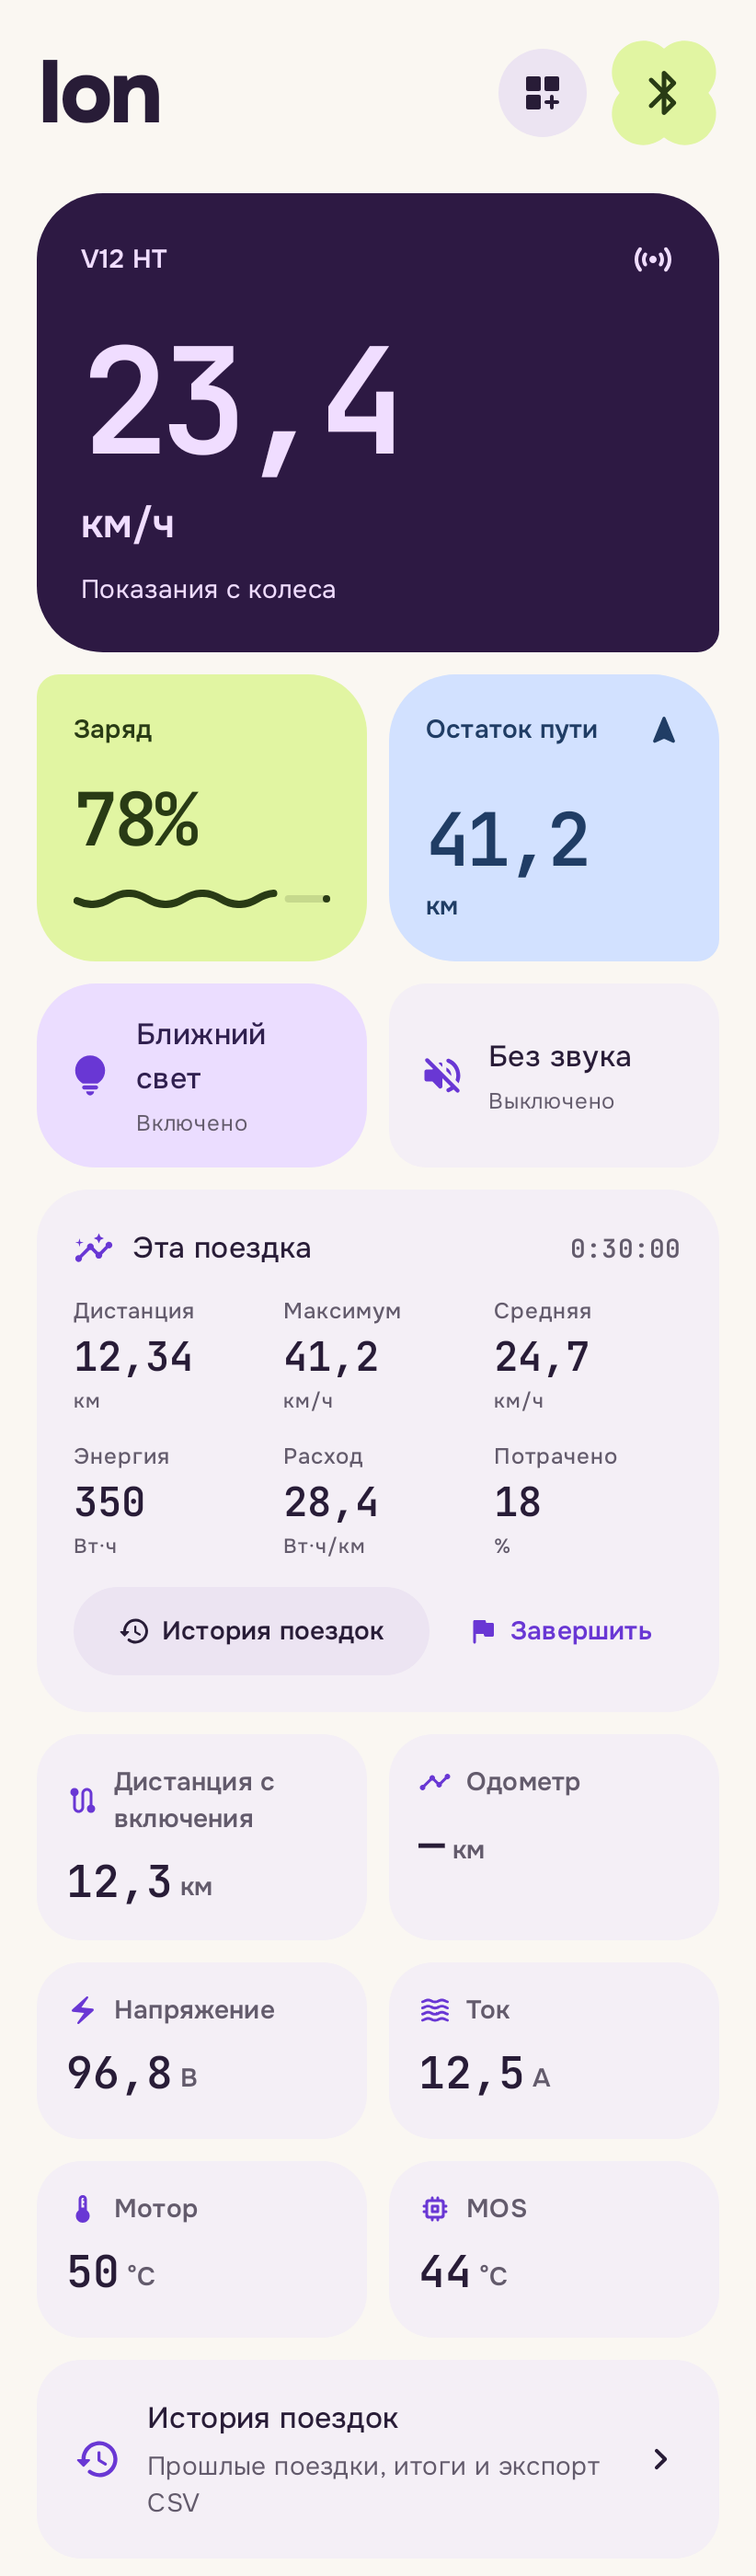
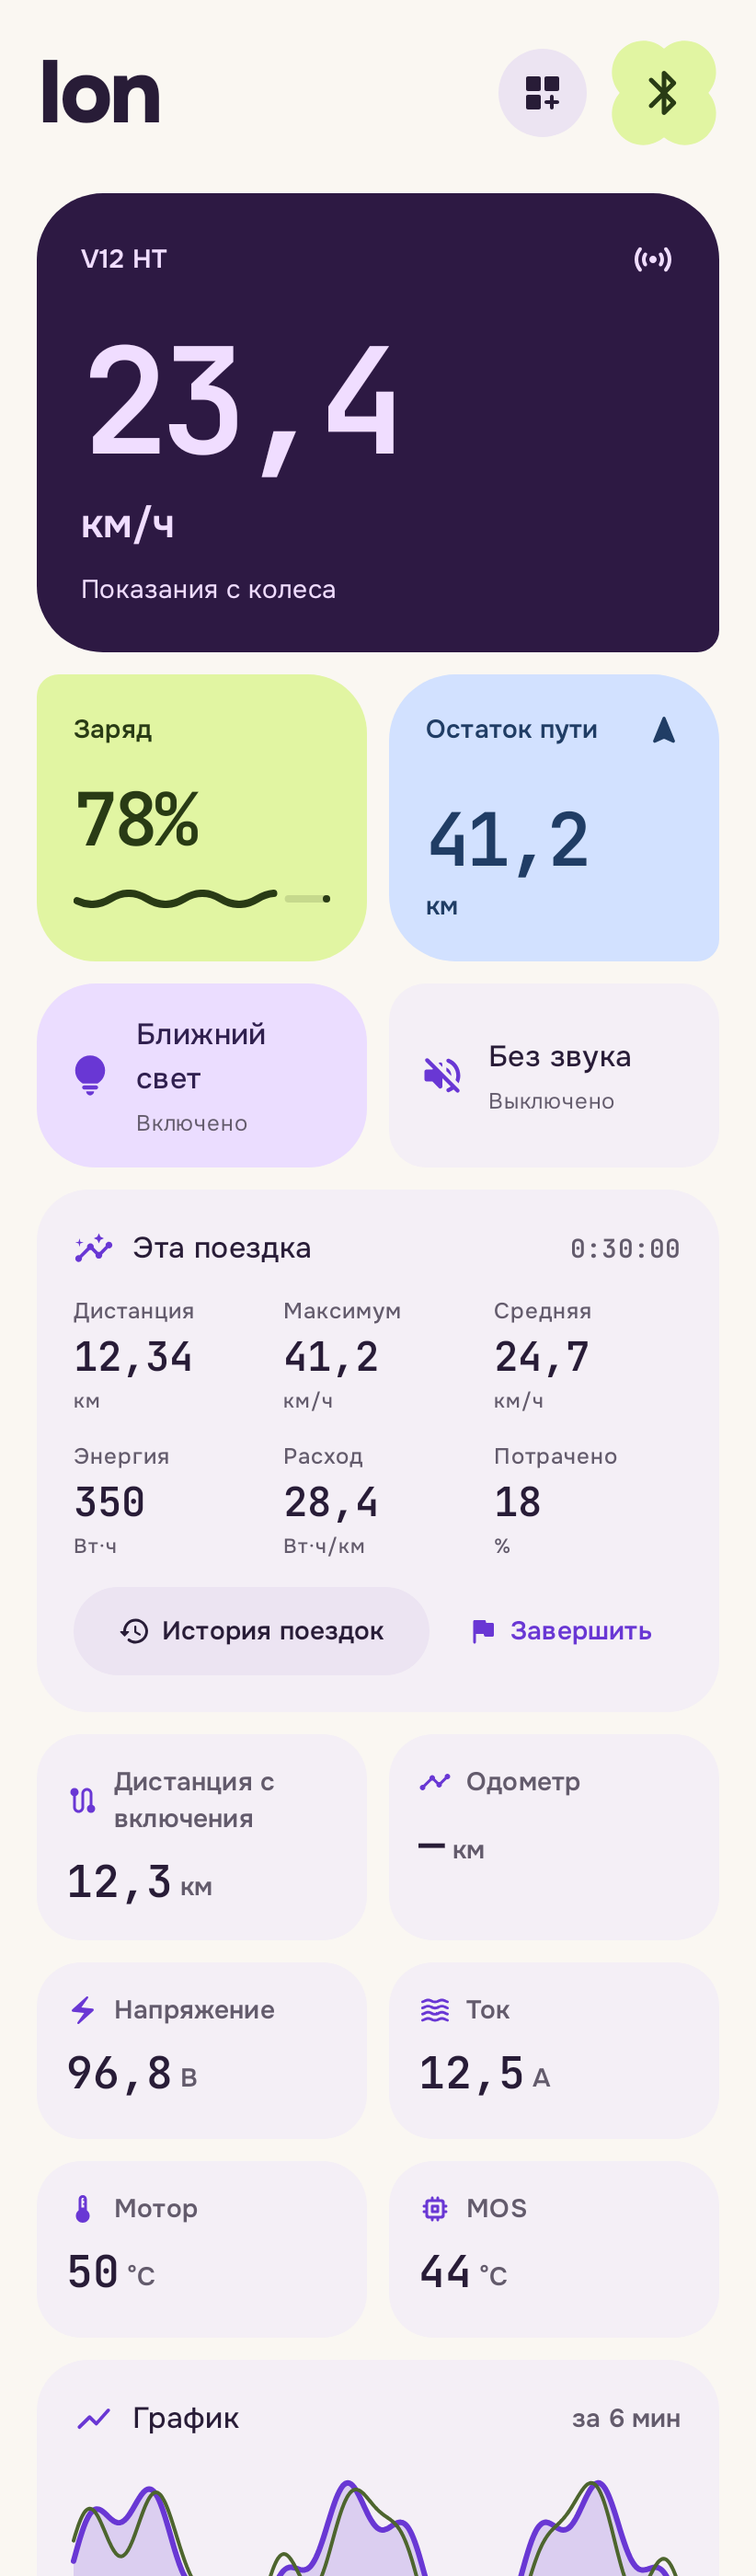
feat: live speed/power chart tile; docs: commit authorship note

Changed region(s): [[0.0912, 0.9321, 0.5779, 1.0], [0.6691, 0.9321, 0.9124, 1.0], [0.8516, 0.9321, 0.882, 0.9632]]

diff --git a/app/src/main/java/com/freecyber/ion/ChartTile.kt b/app/src/main/java/com/freecyber/ion/ChartTile.kt
@@ -1,0 +1,78 @@
+package com.freecyber.ion
+
+import androidx.compose.foundation.Canvas
+import androidx.compose.foundation.layout.*
+import androidx.compose.foundation.shape.RoundedCornerShape
+import androidx.compose.material.icons.Icons
+import androidx.compose.material.icons.rounded.ShowChart
+import androidx.compose.material3.Icon
+import androidx.compose.material3.MaterialTheme
+import androidx.compose.material3.Surface
+import androidx.compose.material3.Text
+import androidx.compose.runtime.Composable
+import androidx.compose.ui.Alignment
+import androidx.compose.ui.Modifier
+import androidx.compose.ui.geometry.Offset
+import androidx.compose.ui.graphics.Color
+import androidx.compose.ui.graphics.Path
+import androidx.compose.ui.graphics.StrokeCap
+import androidx.compose.ui.graphics.StrokeJoin
+import androidx.compose.ui.graphics.drawscope.Stroke
+import androidx.compose.ui.res.stringResource
+import androidx.compose.ui.semantics.contentDescription
+import androidx.compose.ui.semantics.semantics
+import androidx.compose.ui.unit.dp
+
+/** Live speed (filled) and power (line) over the last minutes; each series scales to its own peak. */
+@Composable internal fun ChartTile(samples: List<Sample>,modifier: Modifier) {
+    val speedColor=MaterialTheme.colorScheme.primary
+    val powerColor=MaterialTheme.colorScheme.tertiary
+    val maxSpeed=samples.maxOfOrNull {it.speed} ?: 0f
+    val maxPower=samples.maxOfOrNull {it.power} ?: 0f
+    val minutes=if(samples.size<2) 0 else ((samples.last().at-samples.first().at)/60_000).toInt().coerceAtLeast(1)
+    val summary=stringResource(R.string.chart_summary,maxSpeed.toDouble().fmt(1),maxPower.toInt(),minutes)
+    Surface(modifier,color=MaterialTheme.colorScheme.surfaceContainerLow,shape=RoundedCornerShape(IonShapes.xl)) {
+        Column(Modifier.fillMaxWidth().padding(20.dp),verticalArrangement=Arrangement.spacedBy(12.dp)) {
+            Row(verticalAlignment=Alignment.CenterVertically,horizontalArrangement=Arrangement.spacedBy(10.dp)) {
+                Icon(Icons.Rounded.ShowChart,null,Modifier.size(22.dp),tint=speedColor)
+                Text(stringResource(R.string.tile_chart),style=MaterialTheme.typography.titleMedium,modifier=Modifier.weight(1f))
+                if(minutes>0) Text(stringResource(R.string.chart_window,minutes),style=MaterialTheme.typography.labelLarge,
+                    color=MaterialTheme.colorScheme.onSurfaceVariant)
+            }
+            if(samples.size<2) Text(stringResource(R.string.trip_empty),style=MaterialTheme.typography.bodyMedium,color=MaterialTheme.colorScheme.onSurfaceVariant)
+            else {
+                Canvas(Modifier.fillMaxWidth().height(120.dp).semantics {contentDescription=summary}) {
+                    val t0=samples.first().at.toFloat(); val span=(samples.last().at-samples.first().at).coerceAtLeast(1).toFloat()
+                    fun x(s: Sample)=(s.at-t0)/span*size.width
+                    val sTop=maxOf(maxSpeed,10f)*1.1f
+                    val area=Path().apply {
+                        moveTo(0f,size.height)
+                        samples.forEach {lineTo(x(it),size.height-it.speed/sTop*size.height)}
+                        lineTo(size.width,size.height); close()
+                    }
+                    drawPath(area,speedColor.copy(alpha=.18f))
+                    val line=Path().apply {samples.forEachIndexed {i,s -> val y=size.height-s.speed/sTop*size.height; if(i==0) moveTo(x(s),y) else lineTo(x(s),y)}}
+                    drawPath(line,speedColor,style=Stroke(3.dp.toPx(),cap=StrokeCap.Round,join=StrokeJoin.Round))
+                    if(maxPower>0f) {
+                        val pTop=maxPower*1.1f
+                        val power=Path().apply {samples.forEachIndexed {i,s ->
+                            val y=size.height-(s.power.coerceAtLeast(0f)/pTop)*size.height; if(i==0) moveTo(x(s),y) else lineTo(x(s),y)}}
+                        drawPath(power,powerColor,style=Stroke(2.dp.toPx(),cap=StrokeCap.Round,join=StrokeJoin.Round))
+                    }
+                    drawLine(speedColor.copy(alpha=.3f),Offset(0f,size.height),Offset(size.width,size.height),1.dp.toPx())
+                }
+                Row(horizontalArrangement=Arrangement.spacedBy(16.dp)) {
+                    Legend(speedColor,stringResource(R.string.chart_speed_max,maxSpeed.toDouble().fmt(1)))
+                    Legend(powerColor,stringResource(R.string.chart_power_max,maxPower.toInt()))
+                }
+            }
+        }
+    }
+}
+
+@Composable private fun Legend(color: Color,text: String) {
+    Row(verticalAlignment=Alignment.CenterVertically,horizontalArrangement=Arrangement.spacedBy(6.dp)) {
+        Canvas(Modifier.size(10.dp)) {drawCircle(color)}
+        Text(text,style=MaterialTheme.typography.labelMedium,color=MaterialTheme.colorScheme.onSurfaceVariant)
+    }
+}

diff --git a/app/src/main/java/com/freecyber/ion/VelaViewModel.kt b/app/src/main/java/com/freecyber/ion/VelaViewModel.kt
@@ -12,7 +12,8 @@ object SavedWheelFormat {
     fun validAddress(value: String?) = value != null && Regex("^([0-9A-Fa-f]{2}:){5}[0-9A-Fa-f]{2}$").matches(value)
 }
 data class VelaUi(val wheel: WheelState = WheelState(), val saved: WheelDevice? = null, val now: Long = 0,
-    val staleSince: Long? = null, val reconnecting: Boolean = false, val trip: TripStats = TripStats()) {
+    val staleSince: Long? = null, val reconnecting: Boolean = false, val trip: TripStats = TripStats(),
+    val chart: List<Sample> = emptyList()) {
     val fresh get() = wheel.phase == Phase.CONNECTED && wheel.lastPacketAt?.let { now-it in 0..Timing.FRESH_WINDOW_MS } == true
     val busy get() = wheel.phase in listOf(Phase.CONNECTING, Phase.DISCOVERING, Phase.IDENTIFYING)
     val connected get() = wheel.verifiedHt && wheel.phase == Phase.CONNECTED
@@ -47,7 +48,7 @@ class VelaViewModel(app: Application) : AndroidViewModel(app) {
         val age=wheel.lastPacketAt?.let { now-it }
         staleSince = if(wheel.phase == Phase.CONNECTED && wheel.verifiedHt && (age == null || age > Timing.FRESH_WINDOW_MS)) staleSince ?: now else null
         wheelUiSnapshot(wheel,device,staleSince) { now }.copy(reconnecting=retry,trip=trip)
-    }.stateIn(viewModelScope,SharingStarted.WhileSubscribed(5_000),VelaUi(saved=graph.saved.value))
+    }.combine(graph.chart) { ui,chart -> ui.copy(chart=chart) }.stateIn(viewModelScope,SharingStarted.WhileSubscribed(5_000),VelaUi(saved=graph.saved.value))
     init { viewModelScope.launch { while(true) { tick.value=SystemClock.elapsedRealtime(); delay(Timing.POLL_DELAY_MS) } } }
     fun scan()=graph.ble.scan()
     fun connect(device: WheelDevice)=graph.monitor.userConnect(device)

diff --git a/app/src/test/java/com/freecyber/ion/ScreenshotTest.kt b/app/src/test/java/com/freecyber/ion/ScreenshotTest.kt
@@ -51,6 +51,9 @@ class ScreenshotTest {
         val all = DashboardLayout(DashboardLayout.DEFAULT.slots.map { it.copy(visible = true) })
         RideScreen(Samples.live(), all, {}, {}, {}, {}, {}, {})
     }
+    @Test fun rideChart() = shot("ride_chart", dark = true) {
+        RideScreen(Samples.live(), DashboardLayout.DEFAULT.move(DashTile.CHART, -100).move(DashTile.SPEED, -100), {}, {}, {}, {}, {}, {})
+    }
     @Test fun dashboardEditor() = shot("dashboard_editor") { DashboardEditorScreen(DashboardLayout.DEFAULT, {}, {}) }
     @Test fun background() = shot("background") { BackgroundScreen(PrefsUi(notificationsAllowed = false), Actions(), {}) }
     @Test fun tripsList() = shot("trips") { TripsScreen(trips, Actions(), {}) }
@@ -75,6 +78,8 @@ object Samples {
         return VelaUi(WheelState(phase = Phase.CONNECTED, message = "Данные с колеса", verifiedHt = true,
             telemetry = V12Protocol.telemetry(telemetry), settings = V12Protocol.settings(settings), settingsAt = 9500, lastPacketAt = 9500,
             packets = 128, stationaryPackets = 0),
-            WheelDevice("AA:BB:CC:DD:EE:FF", "V12HT-1234", -55), 10_000, trip = trip)
+            WheelDevice("AA:BB:CC:DD:EE:FF", "V12HT-1234", -55), 10_000, trip = trip,
+            chart = List(420) { i -> val v = 24 + 12 * kotlin.math.sin(i / 25.0) + 4 * kotlin.math.sin(i / 7.0)
+                Sample(i * 1_000L, v.toFloat().coerceAtLeast(0f), (v * 55 + 300 * kotlin.math.cos(i / 11.0)).toFloat(), 90f - i / 30f) })
     }
 }

diff --git a/core/src/main/kotlin/com/freecyber/ion/SampleBuffer.kt b/core/src/main/kotlin/com/freecyber/ion/SampleBuffer.kt
@@ -1,0 +1,30 @@
+package com.freecyber.ion
+
+/** One point of the live chart. [at] is monotonic milliseconds. */
+data class Sample(val at: Long, val speed: Float, val power: Float, val battery: Float)
+
+/** Fixed-size ring of recent telemetry, thinned to at most one point per [stepMs], for the ride chart.
+ * Pure and allocation-light: [snapshot] copies only when something changed. */
+class SampleBuffer(private val capacity: Int = 600, private val stepMs: Long = 1_000) {
+    private val ring = arrayOfNulls<Sample>(capacity)
+    private var head = 0
+    private var size = 0
+    private var lastAt = Long.MIN_VALUE
+    var version = 0; private set
+
+    /** Adds a point unless one was taken less than [stepMs] ago; returns true when the buffer changed. */
+    fun add(t: V12Protocol.Telemetry, now: Long): Boolean {
+        if (lastAt != Long.MIN_VALUE && now - lastAt < stepMs) return false
+        if (!t.speed.isFinite()) return false
+        lastAt = now
+        ring[(head + size) % capacity] = Sample(now, kotlin.math.abs(t.speed).toFloat(), t.power.toFloat(),
+            t.battery.takeIf { it.isFinite() }?.toFloat() ?: Float.NaN)
+        if (size < capacity) size++ else head = (head + 1) % capacity
+        version++
+        return true
+    }
+
+    fun clear() { head = 0; size = 0; lastAt = Long.MIN_VALUE; ring.fill(null); version++ }
+
+    fun snapshot(): List<Sample> = List(size) { ring[(head + it) % capacity]!! }
+}

diff --git a/app/src/main/java/com/freecyber/ion/WheelMonitor.kt b/app/src/main/java/com/freecyber/ion/WheelMonitor.kt
@@ -53,6 +53,7 @@ class WheelMonitor(private val graph: IonGraph) {
         TripSummary.from(graph.trips.stats.value, System.currentTimeMillis(), SystemClock.elapsedRealtime())?.let(graph.history::add)
         graph.history.checkpoint(null); lastCheckpointAt = 0L
         graph.trips.reset()
+        graph.samples.clear(); graph.chartState.value = emptyList()
     }
 
     private fun cancelReconnect() {
@@ -63,7 +64,10 @@ class WheelMonitor(private val graph: IonGraph) {
     private fun onState(s: WheelState) {
         val now = SystemClock.elapsedRealtime()
         val connected = s.verifiedHt && s.phase == Phase.CONNECTED
-        if (s.packets > lastPackets && connected) s.telemetry?.let { graph.trips.feed(it, now) }
+        if (s.packets > lastPackets && connected) s.telemetry?.let {
+            graph.trips.feed(it, now)
+            if (graph.samples.add(it, now)) graph.chartState.value = graph.samples.snapshot()
+        }
         lastPackets = s.packets
         if (connected && now - lastCheckpointAt >= CHECKPOINT_MS) {
             lastCheckpointAt = now

diff --git a/core/src/test/kotlin/com/freecyber/ion/FeatureLogicTest.kt b/core/src/test/kotlin/com/freecyber/ion/FeatureLogicTest.kt
@@ -246,3 +246,21 @@ class BatteryStepperTest {
         assertNull(s.next(null, false))
     }
 }
+
+class SampleBufferTest {
+    private fun t(speed: Double) = V12Protocol.Telemetry(84.0, 10.0, speed, 80.0, 40, 45, 0.0, 0.0, false, false, false)
+
+    @Test fun thinsToOnePerStepAndWraps() {
+        val b = SampleBuffer(capacity = 3, stepMs = 1_000)
+        assertTrue(b.add(t(1.0), 0))
+        assertFalse(b.add(t(2.0), 500))
+        assertTrue(b.add(t(-3.0), 1_000))
+        assertTrue(b.add(t(4.0), 2_000))
+        assertTrue(b.add(t(5.0), 3_000))
+        assertEquals(listOf(3f, 4f, 5f), b.snapshot().map { it.speed })
+        assertEquals(840f, b.snapshot().first().power, 0f)
+        b.clear()
+        assertTrue(b.snapshot().isEmpty())
+        assertTrue(b.add(t(1.0), 3_100))
+    }
+}

diff --git a/app/src/main/java/com/freecyber/ion/FeatureScreens.kt b/app/src/main/java/com/freecyber/ion/FeatureScreens.kt
@@ -37,6 +37,7 @@ internal val DashTile.titleRes: Int get() = when(this) {
     DashTile.QUICK_HIGH_BEAM -> R.string.tile_quick_high_beam
     DashTile.PLAY_SOUND -> R.string.tile_play_sound
     DashTile.MODE -> R.string.tile_mode
+    DashTile.CHART -> R.string.tile_chart
 }
 
 internal val DashTile.icon: ImageVector get() = when(this) {
@@ -58,6 +59,7 @@ internal val DashTile.icon: ImageVector get() = when(this) {
     DashTile.QUICK_HIGH_BEAM -> Icons.Rounded.Highlight
     DashTile.PLAY_SOUND -> Icons.Rounded.Campaign
     DashTile.MODE -> Icons.Rounded.Tune
+    DashTile.CHART -> Icons.Rounded.ShowChart
 }
 
 /** Lets the rider choose, order and size every dashboard module. Changes apply immediately. */

diff --git a/app/src/main/java/com/freecyber/ion/IonApplication.kt b/app/src/main/java/com/freecyber/ion/IonApplication.kt
@@ -31,6 +31,10 @@ class IonGraph(val context: Context) {
     val trips = TripRecorder()
     val history = TripHistory(context)
     val voice = VoiceAnnouncer(context)
+    /** Recent telemetry for the live chart; written by the monitor, read by the UI. */
+    val samples = SampleBuffer()
+    internal val chartState = MutableStateFlow<List<Sample>>(emptyList())
+    val chart: StateFlow<List<Sample>> = chartState.asStateFlow()
     val ble = BleController(context, scope) { device ->
         store.saveVerified(device)
         savedState.value = device

diff --git a/app/src/main/java/com/freecyber/ion/RideScreen.kt b/app/src/main/java/com/freecyber/ion/RideScreen.kt
@@ -102,6 +102,7 @@ import kotlin.math.roundToInt
         DashTile.PWM -> PwmTile(t?.pwm,modifier)
         DashTile.TILT -> MetricTile(stringResource(R.string.tile_tilt),t?.let {"${it.pitch.fmt(1)} / ${it.roll.fmt(1)}"},stringResource(R.string.unit_degrees),Icons.Rounded.ScreenRotation,wide,modifier)
         DashTile.MODE -> ModeTile(s,modifier,env.openRideMode)
+        DashTile.CHART -> ChartTile(ui.chart,modifier)
     }
 }
 

diff --git a/core/src/main/kotlin/com/freecyber/ion/Dashboard.kt b/core/src/main/kotlin/com/freecyber/ion/Dashboard.kt
@@ -21,6 +21,7 @@ enum class DashTile(val defaultVisible: Boolean, val defaultWide: Boolean, val c
     QUICK_HIGH_BEAM(false, false),
     PLAY_SOUND(false, false),
     MODE(false, true, canBeHalf = true),
+    CHART(true, true, canBeHalf = false),
 }
 
 data class TileSlot(val tile: DashTile, val visible: Boolean, val wide: Boolean) {

diff --git a/docs/ai-rolling-handoff.md b/docs/ai-rolling-handoff.md
@@ -62,3 +62,14 @@
 - `WheelService` держит несчётный `PARTIAL_WAKE_LOCK` (продлевается на 2 мин при каждом обновлении, пока связь активна; снимается при остановке). Причина: колесо опрашивается запросами, а не стримит — если CPU засыпает между опросами в кармане, телеметрия и оповещения замирают. Добавлено разрешение `WAKE_LOCK`.
 - Новый чисто-Kotlin модуль `:core` (JVM, без Android): `Protocol`, `LockSecurity`, `Formatters`, `AlertEngine`, `Config` (AlertConfig/BackgroundConfig), `Dashboard`, `TripRecorder`, `TripSummary`/`TripTotals`, `BatteryStepper`, `ReconnectPolicy`, `WheelErrors`, `WidgetSnapshot` (данные). Android-сторона (`WidgetMapping.kt`: `WidgetSnapshot.from(WheelState…)`) осталась в `:app`. Пакет прежний (`com.freecyber.ion`), импорты не менялись; `internal` → public для `frame`, `LockSecurity`, `fmt`.
 - Тесты логики переехали в `core/src/test` (вместе с `v12-fixtures.txt`), `ControlsTest`/`ConnectionTimingTest`/`ScreenshotTest` — в `:app`. Команда: `./gradlew :core:test :app:testDebugUnitTest assembleDebug`. Всего 70 тестов, зелёные. CI обновлён.
+
+## Сессия 1 — авторство коммитов
+
+- Обнаружено: коммиты ветки шли от `mybydemvarit jesse <free.wplace4@gmail.com>` — это был глобальный `git config` машины (`gh auth` отвечает только за push). Для репозитория задано `user.name=0CYBER`, `user.email=heyartemka@gmail.com` (как в исходных коммитах), 8 коммитов ветки переписаны (`rebase --exec 'commit --amend --reset-author'`) и отправлены `--force-with-lease`. `main` не трогался. Новые хэши: c9c28e7 … 351c58f.
+
+## Сессия 1 — плитка «График»
+
+- `:core` `SampleBuffer`: кольцевой буфер последних 6 мин телеметрии (скорость, мощность), прореживание до 1 точки/с, сброс при `finishTrip`. Тест в `FeatureLogicTest`.
+- `DashTile.CHART` (широкая, по умолчанию видна, добавляется в конец сохранённых раскладок автоматически). `ChartTile.kt`: Canvas — заливка-площадь скорости + линия мощности (цвет `tertiary`), легенда «Скорость до … км/ч», «Мощность до … Вт», окно «за N мин», contentDescription с итогами для TalkBack.
+- Поток: `WheelMonitor` → `IonGraph.chart` (StateFlow) → `VelaViewModel.combine` → `VelaUi.chart`.
+- Новый скриншот `ride_chart` (тёмная тема, график сразу под скоростью). 72 теста зелёные.
